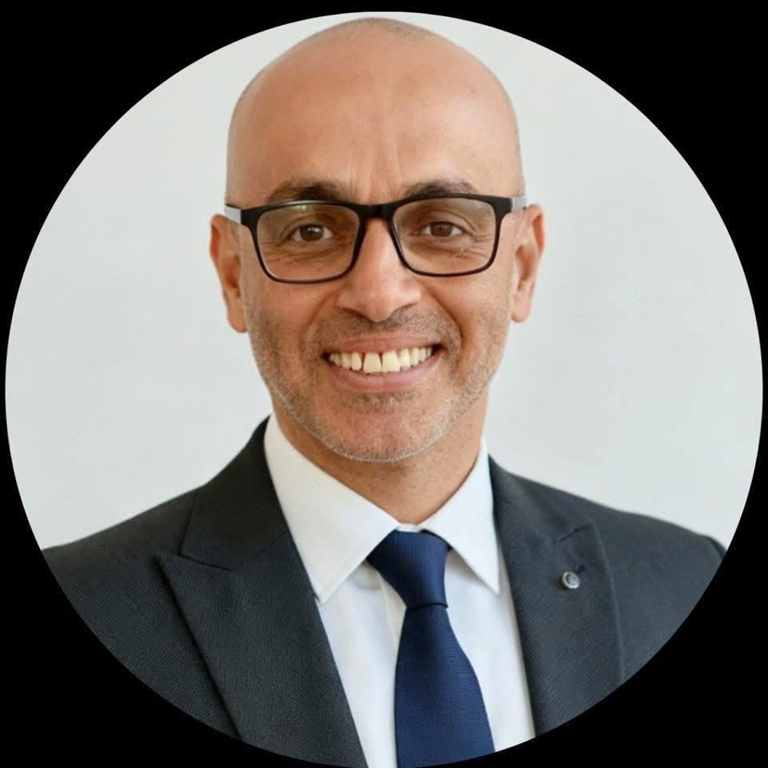
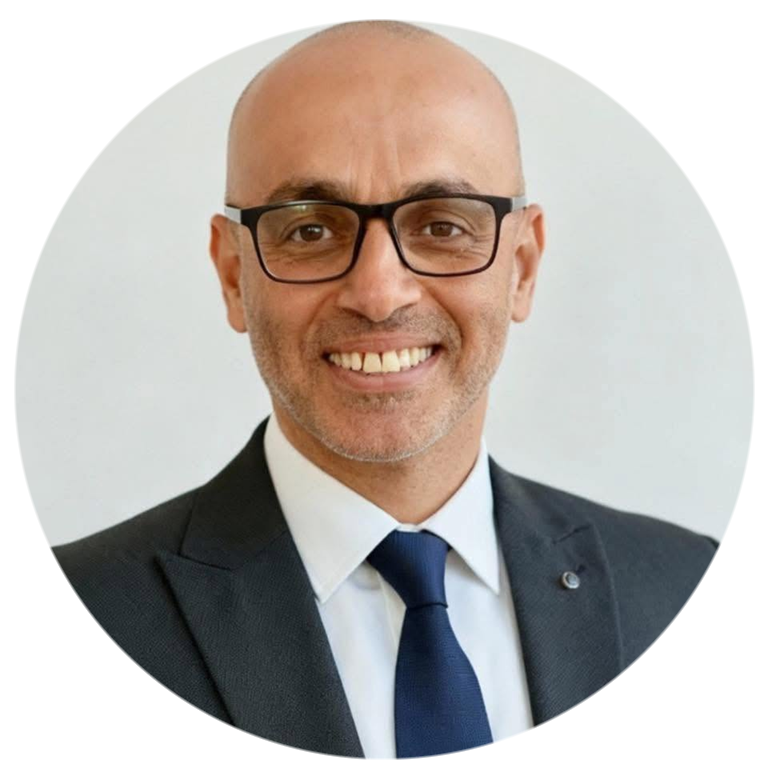
fix(editors): remove black border from Dr. Hesham Hussein portrait and update publications with no links

Changed region(s): [[0.0, 0.0, 0.9987, 0.9987]]

diff --git a/lib/data/editors.ts b/lib/data/editors.ts
@@ -1965,7 +1965,7 @@ Dr. Chamberland earned her Ph.D. in History from the University of California, D
     orcid: "",
     googleScholar: "",
     linkedin: "https://www.linkedin.com/in/hesham-hussein",
-    imageUrl: "/images/editors/hesham-hussein.jpg",
+    imageUrl: "/images/editors/hesham-hussein.png",
     journalSlug: "social-sciences-humanities",
     assignedSections: [
       "Archaeology & Ancient History",
@@ -2050,19 +2050,6 @@ Dr. Hussein earned his PhD in History and Civilization from Suez Canal Universit
 
 His major field projects include serving as Founder and Director of the Sinai Rock Inscription Documentation Project (RIDP, initiated 2018), documenting rock inscriptions and petroglyphs using photogrammetry and digital workflows; discovering a New Kingdom military fortress on the Ways of Horus at Tell el-Kharuba; investigating ancient copper mining and metallurgy installations at Wadi el-Nasab; excavating Hellenistic and Roman Pelusium (Tell el-Farama), including the Temple of Zeus Kasios; and researching the Canopus Decree stela at Tell Fara’un and the newly identified frontier commander tomb at Tell el-Maskhuta. In addition, Dr. Hussein has served as Scientific Advisor for the Egypt Reborn Project (Flyover Zone) and the Arab Inscriptions Portal (Abu Dhabi), and has been awarded fellowships including the Egypt Exploration Society Scholar (London, 2015), CNR-ITABC (Italy, 2014), and ARCE Conservation training (USA, 2019).`,
     personalPublications: [
-      {
-        title: "The Lost Temple of Zeus Kasios at Pelusium: Newly Uncovered Architectural and Epigraphic Evidence",
-        journal: "Zeitschrift für Papyrologie und Epigraphik (ZPE)",
-        year: "2025",
-        link: "https://www.uni-koeln.de/phil-fak/ifa/zpe/"
-      },
-      {
-        title: "Geomorphological Hazard Assessment of Archaeological Sites in Wadi Maghara, South Sinai, Egypt",
-        journal: "Bulletin de la Société de Géographie d’Égypte",
-        year: "2025",
-        doi: "10.21608/bsge.2025.385640.1044",
-        link: "https://doi.org/10.21608/bsge.2025.385640.1044"
-      },
       {
         title: "The Egyptian Eastern Border during the New Kingdom: The Ways of Horus Fortresses and the Development of the Concept of National Security",
         journal: "Heritage and Civilization",

diff --git a/app/editorial360/page.tsx b/app/editorial360/page.tsx
@@ -4170,7 +4170,7 @@ Specific comments to the Author(s):
           currentEditorJournal = "Scholarly Open: Social Sciences & Humanities"
           currentEditorInstitution = "Supreme Council of Antiquities, Ministry of Tourism and Antiquities, Egypt"
           currentEditorCountry = "Egypt"
-          currentEditorPhotoUrl = "/images/editors/hesham-hussein.jpg"
+          currentEditorPhotoUrl = "/images/editors/hesham-hussein.png"
 
           setEditorName(currentEditorName)
           setEditorRank(currentEditorRank)
